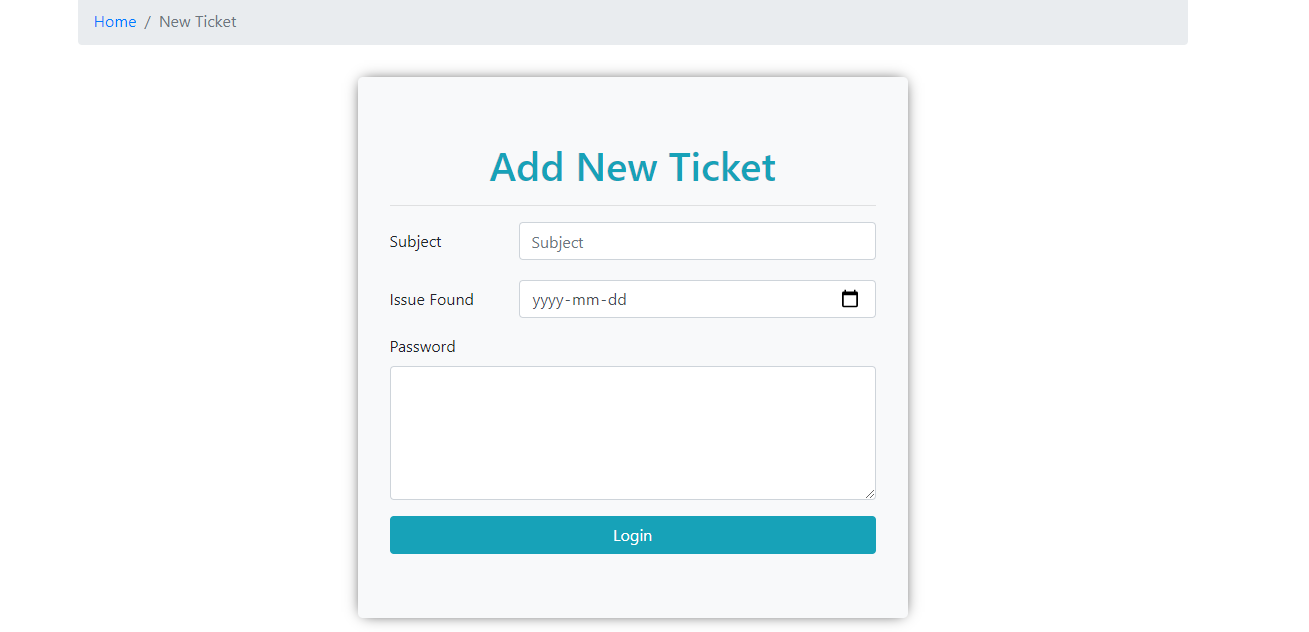
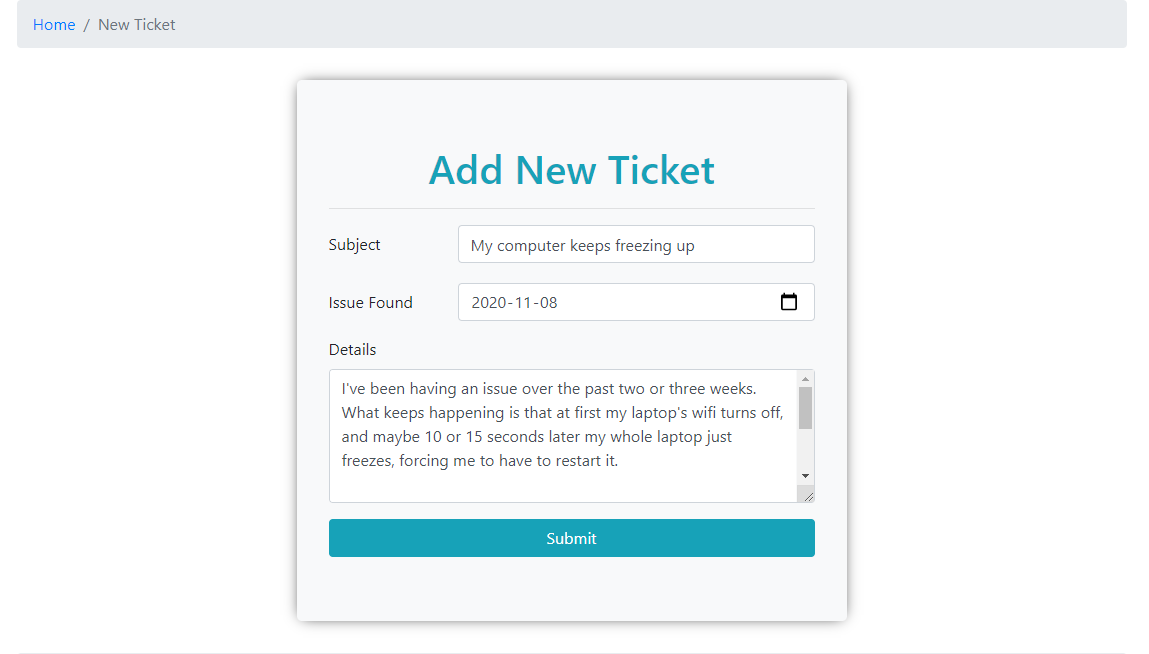
Updated: Preview image

diff --git a/src/pages/ticket/Ticket.page.js b/src/pages/ticket/Ticket.page.js
@@ -4,23 +4,20 @@ import { PageBreadcrumb } from "../../components/breadcrumb/Breadcrumb.comp";
 import tickets from "../../assets/data/dummy-tickets.json";
 import { MessageHistory } from "../../components/message-history/MessageHistory.comp";
 import { UpdateTicket } from "../../components/update-ticket/UpdateTicket.comp";
-import { useParams } from "react-router-dom";
 
 // const ticket = tickets[0];
 export const Ticket = () => {
-  const { tId } = useParams();
-
   const [message, setMessage] = useState("");
   const [ticket, setTicket] = useState("");
 
   useEffect(() => {
     for (let i = 0; i < tickets.length; i++) {
-      if (tickets[i].id == tId) {
+      if (tickets[i].id) {
         setTicket(tickets[i]);
         continue;
       }
     }
-  }, [message, tId]);
+  }, [message]);
 
   const handleOnChange = (e) => {
     setMessage(e.target.value);

diff --git a/src/components/add-ticket-form/AddTicketForm.comp.js b/src/components/add-ticket-form/AddTicketForm.comp.js
@@ -50,7 +50,7 @@ export const AddTicketForm = ({
           </Col>
         </Form.Group>
         <Form.Group>
-          <Form.Label>Password</Form.Label>
+          <Form.Label>Details</Form.Label>
           <Form.Control
             as="textarea"
             name="detail"
@@ -62,7 +62,7 @@ export const AddTicketForm = ({
         </Form.Group>
 
         <Button type="submit" variant="info" block>
-          Login
+          Submit
         </Button>
       </Form>
     </Jumbotron>

diff --git a/src/App.js b/src/App.js
@@ -14,7 +14,7 @@ function App() {
         <Dashboard />
         <AddTicket />
         <TicketLists />
-        {/* <Ticket /> */}
+        <Ticket />
       </DefaultLayout>
     </div>
   );
